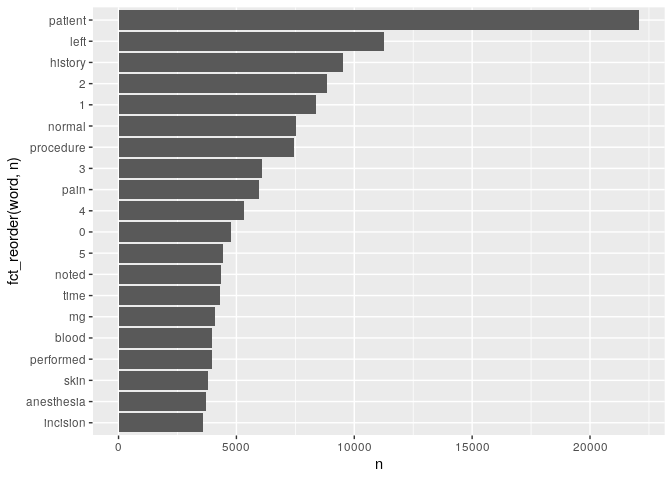
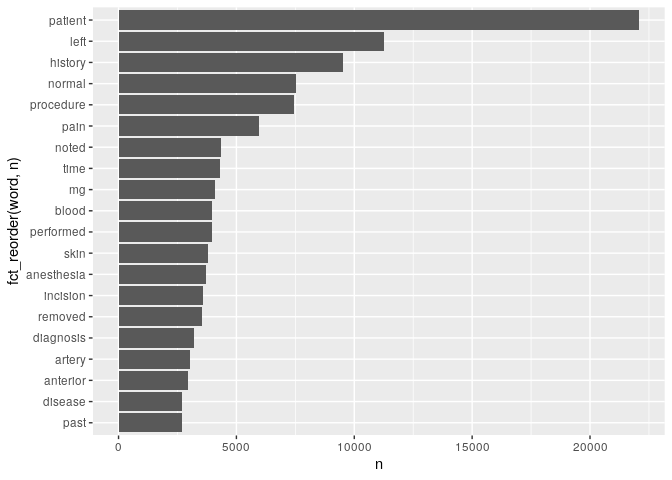
Question 4/lab 6

diff --git a/lab06/README.md b/lab06/README.md
@@ -92,6 +92,8 @@ mtsamples %>%
   unnest_tokens(output = word, input = transcription) %>%
   count(word, sort = TRUE) %>%
   anti_join(stop_words, by = "word") %>%
+  # Using regular expressions to remove numbers
+  filter(!grepl(pattern = "^[0-9]+$", x = word)) %>%
   top_n(20) %>%
   ggplot(aes(x = n, y = fct_reorder(word, n))) +
     geom_col()
@@ -101,4 +103,38 @@ mtsamples %>%
 
 ![](README_files/figure-gfm/token-transcript-wo-stop-1.png)<!-- -->
 
-Looking better, but we don’t like the numbers.
+Looking better~~, but we don’t like the numbers~~.
+
+## Question 4
+
+``` r
+mtsamples %>%
+  unnest_ngrams(output = bigram, input = transcription, n = 2) %>%
+  count(bigram, sort = TRUE) %>%
+  top_n(20) %>%
+  ggplot(aes(x = n, y = fct_reorder(bigram, n))) +
+    geom_col()
+```
+
+    ## Selecting by n
+
+![](README_files/figure-gfm/bigram-transcript-1.png)<!-- -->
+
+Using bi-grams is not very informative, let’s try with tri-grams
+instead.
+
+``` r
+mtsamples %>%
+  unnest_ngrams(output = trigram, input = transcription, n = 3) %>%
+  count(trigram, sort = TRUE) %>%
+  top_n(20) %>%
+  ggplot(aes(x = n, y = fct_reorder(trigram, n))) +
+    geom_col()
+```
+
+    ## Selecting by n
+
+![](README_files/figure-gfm/trigram-transcript-1.png)<!-- -->
+
+Now some phrases start to show up, e.g., “tolerated the procedure”,
+“prepped and draped.”
